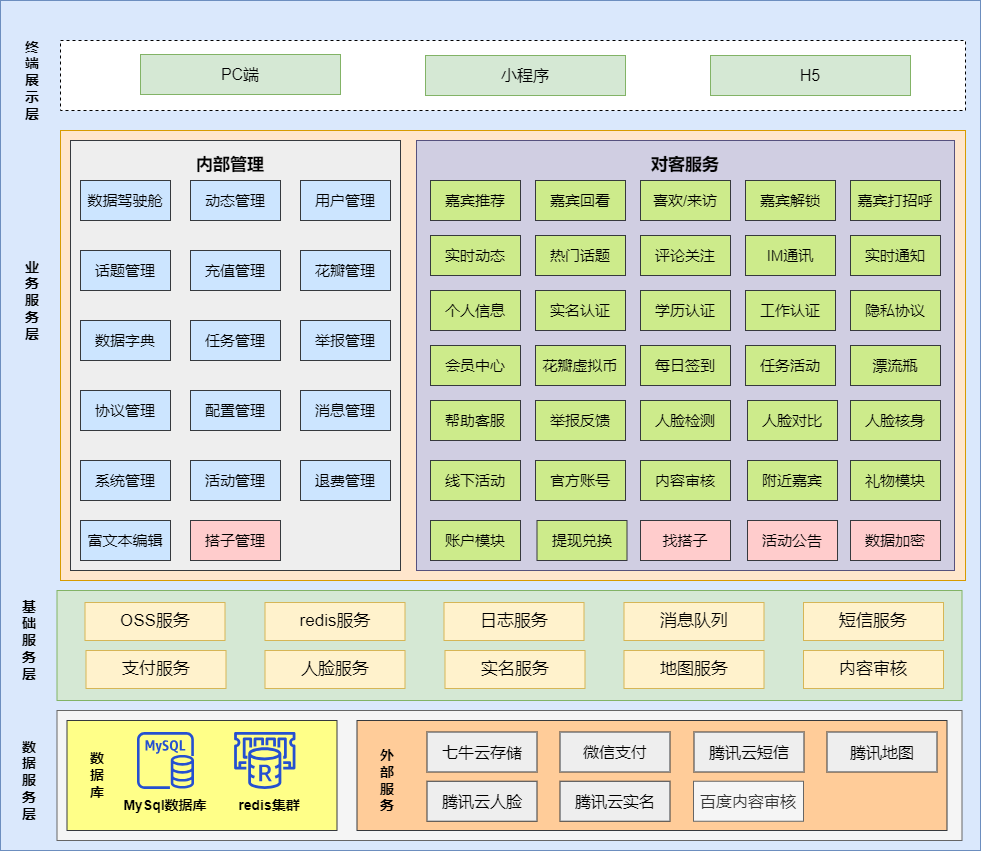
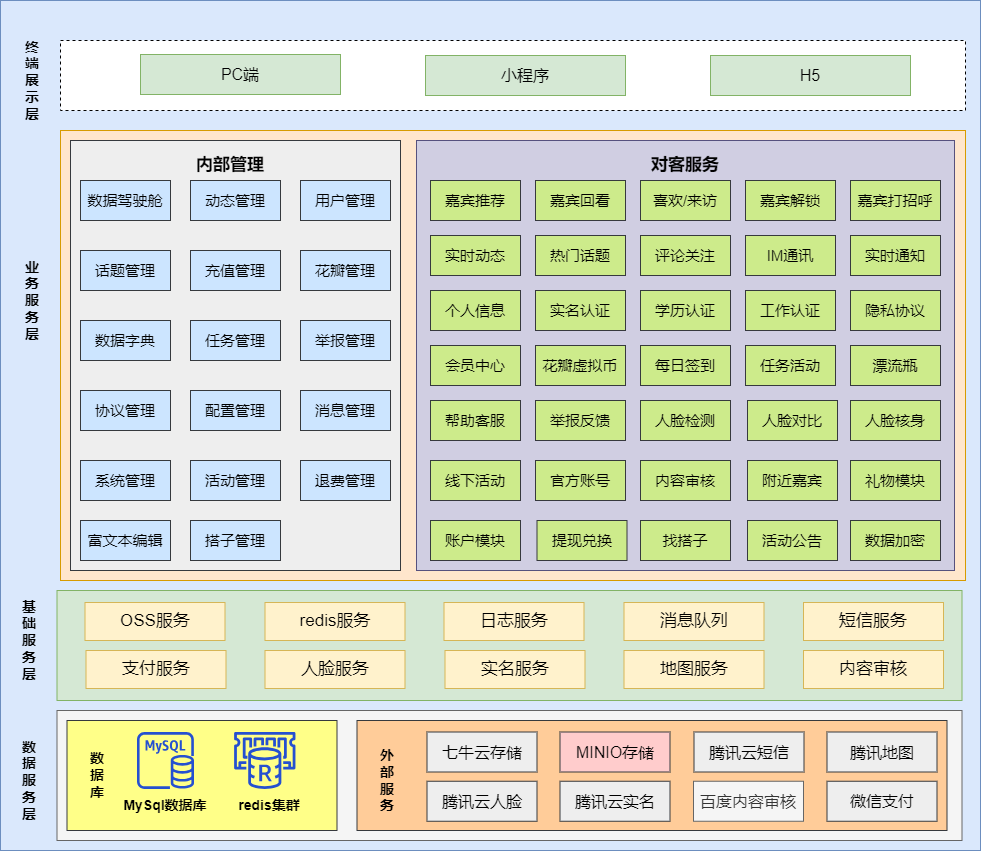
v1.6.0版本发布

diff --git a/README.md b/README.md
@@ -95,7 +95,18 @@
 
 ### 3.标准版更新记录
 
-**当前版本V1.5.0**
+**当前版本V1.6.0**
+
+<u>2024.10.17</u>
+##### **林风婚恋交友V1.6.0发布**
+- 【新增】1.新增个人语音信息介绍
+- 【新增】2.新增小程序/h5账号互通
+- 【新增】3.新增账号注销功能
+- 【新增】4.新增动态/评论地址显示
+- 【新增】5.新增本地存储minio
+- 【优化】6.新增机器人注册/发动态
+- 【优化】7.优化新建搭子返回控制拦截
+- 【优化】8.优化部分新用户实名状态不更新问题
 
 <u>2024.08.29</u>
 ##### **林风婚恋交友V1.5.0发布**
